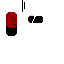
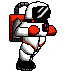
Added walking sprites and new move funct

diff --git a/moonrun.py b/moonrun.py
@@ -5,7 +5,6 @@ V 0.4:
 
 NOTES:
 
-set difficulty (worldvel) at beginning
 
 
 TO DO: 
@@ -30,9 +29,6 @@ Remmy:
 Mohammad:
 - Sprites
 - Collisions/platforms
-
-Jonas:
-- walking function
 
 
 OPTIMIZE CODE:
@@ -76,8 +72,8 @@ import pickle
 pygame.init()
 
 
-#import os
-#os.chdir(r'C:\Users\jonas\Desktop\MoonRun')
+import os
+os.chdir(r'C:\Users\jonas\Desktop\MoonRun\git\MoonRun')
 
 
 #general game values
@@ -106,12 +102,12 @@ p2colour = pygame.Color('blue')
 #images
 night = pygame.image.load('starry.png')
 
-p1move = [pygame.image.load('p11.png'), pygame.image.load('p12.png')]
-p2move = [pygame.image.load('p21.png'), pygame.image.load('p22.png')]
+p1move = [pygame.image.load('p11.png'), pygame.image.load('p12.png'), pygame.image.load('p13.png'), pygame.image.load('p14.png'), pygame.image.load('p15.png'), pygame.image.load('p16.png'), pygame.image.load('p17.png'), pygame.image.load('p18.png')]
+p2move = [pygame.image.load('p11.png'), pygame.image.load('p12.png'), pygame.image.load('p13.png'), pygame.image.load('p14.png'), pygame.image.load('p15.png'), pygame.image.load('p16.png'), pygame.image.load('p17.png'), pygame.image.load('p18.png')]
 p1stand = pygame.image.load('p10.png')
-p1jump = pygame.image.load('p1j.png')
+p1jump = [pygame.image.load('p1j.png'),pygame.image.load('p1j2.png')]
 p2stand = pygame.image.load('p20.png')
-p2jump = pygame.image.load('p2j.png')
+p2jump = [pygame.image.load('p1j.png'),pygame.image.load('p1j2.png')]
 
 
 #sounds
@@ -202,23 +198,22 @@ class player (object):
         if self.move:
             if self.step + 1 > 8:
                 self.step = 0
-            if self.step < 4:
-                if not self.left: 
-                    window.blit(self.movelist[0], (self.x,self.y))
-                else:
-                    window.blit(pygame.transform.flip(self.movelist[0],1,0), (self.x,self.y))
-                self.step += 1
-            if self.step >= 4:
-                if not self.left: 
-                    window.blit(self.movelist[1], (self.x,self.y))
-                else:
-                    window.blit(pygame.transform.flip(self.movelist[1],1,0), (self.x,self.y))
-                self.step += 1
+            if not self.left: 
+                window.blit(self.movelist[self.step//2], (self.x,self.y))
+            else:
+                window.blit(pygame.transform.flip(self.movelist[self.step//2],1,0), (self.x,self.y))
+            self.step += 1
         elif self.isJump and self.neg == 1:
             if not self.left:
-                window.blit(self.jumpimg, (self.x,self.y))
+                if pygame.time.get_ticks()%2 == 0:
+                    window.blit(self.jumpimg[0], (self.x,self.y))
+                else:
+                    window.blit(self.jumpimg[1], (self.x,self.y))
             else: 
-                window.blit(pygame.transform.flip(self.jumpimg,1,0), (self.x,self.y))
+                if pygame.time.get_ticks()%2 == 0:
+                    window.blit(pygame.transform.flip(self.jumpimg[0],1,0), (self.x,self.y))
+                else:
+                    window.blit(pygame.transform.flip(self.jumpimg[1],1,0), (self.x,self.y))
         else:
             if not self.left:
                 window.blit(self.standimg, (self.x,self.y))
@@ -407,8 +402,8 @@ bd2 = backdrop(0,0,worldvel/2,'hills_fg.png',800,400)
 
 lunar = displayObject(winwidth*3,winheight-170,worldvel,'lunarmodule.png',160,160)
 
-player1 = player(winwidth//2,winheight-80,64,64, p1move, p1stand, p1jump, 'Player 1')
-player2 = player(winwidth*(2/3),winheight-80,64,64, p2move, p2stand, p2jump, 'Player 2')
+player1 = player(winwidth//2,winheight-85,71,71, p1move, p1stand, p1jump, 'Player 1')
+player2 = player(winwidth*(2/3),winheight-85,71,71, p2move, p2stand, p2jump, 'Player 2')
 
 #crashes when file is empty
 try:
@@ -624,13 +619,13 @@ while run:
     #player death
     for player in playerlist:
         for hole in holelist:
-            if player.x > hole.x + 5 and player.x < hole.x+250-player.width and player.y >= winheight-84:
+            if player.x > hole.x + 5 and player.x < hole.x+hole.width-player.width and player.y >= winheight-91:
                 if player.alive:
                     death.play()
                 player.alive = False
                 player.y += 15
 
-        if player.x <= -32 and player.alive:
+        if player.x <= -50 and player.alive:
             player.isJump = False #so that jetpack doesn't drown out death sound
             death.play()
             player.alive = False
